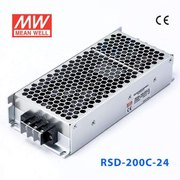
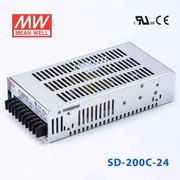
Смета: уточнены фотографии (колесо, платы, преобразователь, карты, предохранитель)

diff --git a/docs/COST_ESTIMATE.md b/docs/COST_ESTIMATE.md
@@ -505,7 +505,7 @@
 
 | Файл | Позиции | Источник |
 | :--- | :--- | :--- |
-| `wheel_hub_motor.jpg` | 1.01 | файл репозитория [`docs/assets/images/scooter_hub_motor.jpg`](../docs/assets/images/scooter_hub_motor.jpg) |
+| `wheel_hub_motor.jpg` | 1.01 | [36V 350W Scooter Hub Motor for Xiaomi M365 Pro, 8.5 inch, solid tyre (Amazon)](https://www.amazon.com/xiaomi-m365-pro-wheel-motor/s?k=xiaomi+m365+pro+wheel+motor) |
 | `subaru_hub.jpg` | 1.02 | файл репозитория [`docs/assets/images/subaru_hub_bearing.jpg`](../docs/assets/images/subaru_hub_bearing.jpg) |
 | `nema23.jpg` | 1.03 | файл репозитория [`docs/assets/images/nema23_motor.jpg`](../docs/assets/images/nema23_motor.jpg) |
 | `tb6600.jpg` | 1.04 | файл репозитория [`docs/assets/images/tb6600_driver.jpg`](../docs/assets/images/tb6600_driver.jpg) |
@@ -528,7 +528,7 @@
 | `headlight.jpg` | 2.08 | [18W LED Work Light, 12–24 V (Amazon)](https://www.amazon.com/Willpower-Tractor-Driving-Waterproof-12-24V/dp/B01MDUY1I3) |
 | `stop_light.jpg` | 2.09 | [4-inch Round Red Stop, Turn, Tail Light, 24 LED (thetrailershoppe.com)](https://thetrailershoppe.com/product/4-round-red-stop-turn-tail-light-24-led) |
 | `turn_signal.jpg` | 2.10 | [Universal 12V LED Motorcycle Turn Signals, Amber, Pair (Amazon)](https://us.amazon.com/gp/new-releases/automotive/404801011) |
-| `mifare_card.jpg` | 2.11 | [MIFARE Classic 1K RFID Smart Card, blank (eBay)](https://ebay.com/itm/266858585451) |
+| `mifare_card.jpg` | 2.11 | [Blank PVC cards, 13.56 MHz MIFARE Classic 1K (eBay)](https://www.ebay.com/itm/198487082417) |
 | `carrier_sensor.jpg` | 2.13 | файл репозитория [`pcb/images/sensor_module_render.png`](../pcb/images/sensor_module_render.png) |
 | `lds01.jpg` | 3.01 | [360 Laser Distance Sensor LDS-01 (robot-advance.com)](https://www.robot-advance.com/EN/art-360-laser-distance-sensor-lds-01-2352.htm) |
 | `kinect360.jpg` | 3.02 | [Kinect Sensor for Xbox 360, Black (powerupgaming.ca)](https://www.powerupgaming.ca/products/360-acc-kinsnsblk) |
@@ -546,7 +546,7 @@
 | `nickel_strip.jpg` | 5.04 | [Pure nickel strip 0.2 x 10 mm for battery spot welding (eBay)](https://ebay.com/itm/147566642997) |
 | `battery_box.jpg` | 5.05 | [36V 48V Empty Ebike battery box, lithium battery case (eBay)](https://ebay.ca/itm/173637225434) |
 | `charger_12s.jpg` | 5.06 | [43.8V LiFePO4 Battery Charger for 12S 36V batteries (Amazon)](https://amazon.com/clp/B0GCZW9M6X) |
-| `dcdc_24v.jpg` | 5.07 | [Mean Well RSD-200C-24 DC-DC Converter, 24 V, 8.4 A — изделие того же типа (powersupplymall.com)](https://powersupplymall.com/products/mean-well-rsd-200c-24-dc-dc-converter-201-6w-33-6-62-4v-in-24v-out) |
+| `dcdc_24v.jpg` | 5.07 | [Mean Well SD-200C-24 DC-DC Converter, 36–72 V in, 24 V out, 8.4 A (wellforces.com)](https://wellforces.com/products/mean-well-sd-200c-24-dc-dc-converter-200w-36-72v-in-24v-out) |
 | `dcdc_12v.jpg` | 5.08 | [Step-down DC-DC converter in aluminum case (eBay)](https://ebay.com/itm/135499151713) |
 | `dcdc_5v.jpg` | 5.09 | [5V 10A Step Down DC/DC 50W Power Converter, waterproof — изделие того же типа (madhornets.com)](https://www.madhornets.com/12-24v-to-5v-10a-step-down-dc-dc-50w-power-converter-regulator-waterproof/) |
 | `xt90s.jpg` | 5.10 | [Amass XT90-S Anti-Spark Connectors, 1 pair (phaserfpv.com.au)](https://phaserfpv.com.au/products/xt90-s-anti-spark-connectors) |
@@ -555,7 +555,7 @@
 | `terminals.jpg` | 5.13 | [Набор обжимных клемм с изоляцией в пластиковом кейсе (Яндекс Маркет)](https://market.yandex.ru/search?text=%D0%9D%D0%B0%D0%B1%D0%BE%D1%80+%D0%BE%D0%B1%D0%B6%D0%B8%D0%BC%D0%BD%D1%8B%D1%85+%D0%BA%D0%BB%D0%B5%D0%BC%D0%BC+%D1%81+%D0%B8%D0%B7%D0%BE%D0%BB%D1%8F%D1%86%D0%B8%D0%B5%D0%B9+%D0%B2+%D0%BF%D0%BB%D0%B0%D1%81%D1%82%D0%B8%D0%BA%D0%BE%D0%B2%D0%BE%D0%BC+%D0%BA%D0%B5%D0%B9%D1%81%D0%B5) |
 | `estop_switch.jpg` | 6.01 | [ED250 Emergency Stop, red mushroom head (Amazon)](https://amazon.ca/Emergency-Mushroom-Button-Switches-Control/dp/B0FPWZNNB3) |
 | `dc_breaker.jpg` | 6.02 | [CHINT NB1-63DC C63A 2P (chintglobal.com)](https://www.chintglobal.com/global/en/products/low-voltage/iec/final-power-distribution/nb1-63dc.html) |
-| `maxi_fuse.jpg` | 6.03 | [MAXI blade fuse holder with fuse (eBay)](https://www.ebay.com.au/itm/316067796755) |
+| `maxi_fuse.jpg` | 6.03 | [Waterproof MAXI inline fuse holder with fuses (eBay)](https://ebay.com/itm/407213114869) |
 | `beacon.jpg` | 6.04 | [12-24V Amber LED Strobe Light, magnetic (Amazon)](https://www.amazon.com/Magnetic-Rechargeable-Waterproof-Portable-Emergency/dp/B0F1MR1JSG) |
 | `buzzer.jpg` | 6.05 | [Оповещатель звуковой Зуммер-1-05 2ТК-12, 85 дБ, 12 В (rs24.ru)](https://rs24.ru/product/2359625) |
 | `reflective_tape.jpg` | 6.06 | [Reflective tape 50 mm, red/white, vehicle conspicuity (fowkes.co.za)](https://www.fowkes.co.za/product/tape-reflective-50mm-x-50m-red-50m-roll-vehicle-conspicuity-e-mark) |
